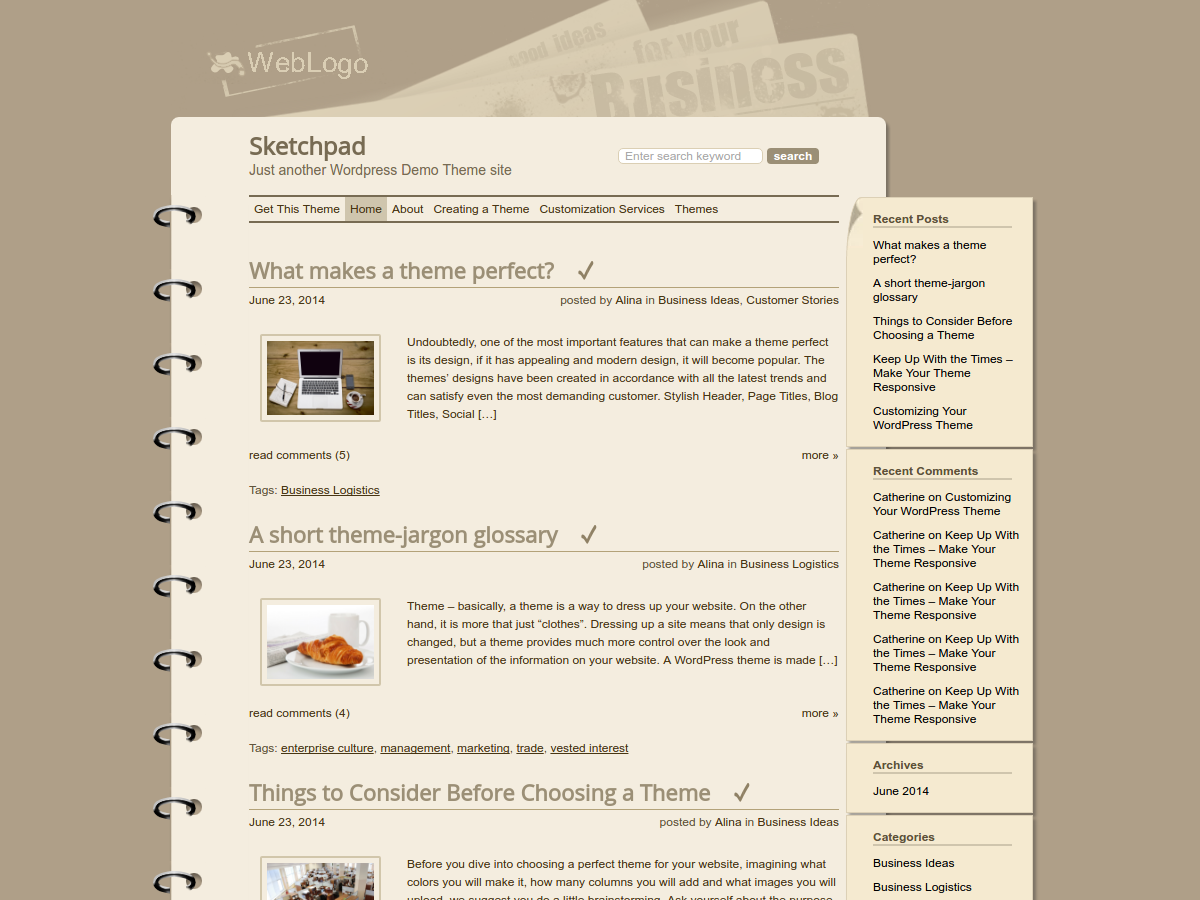
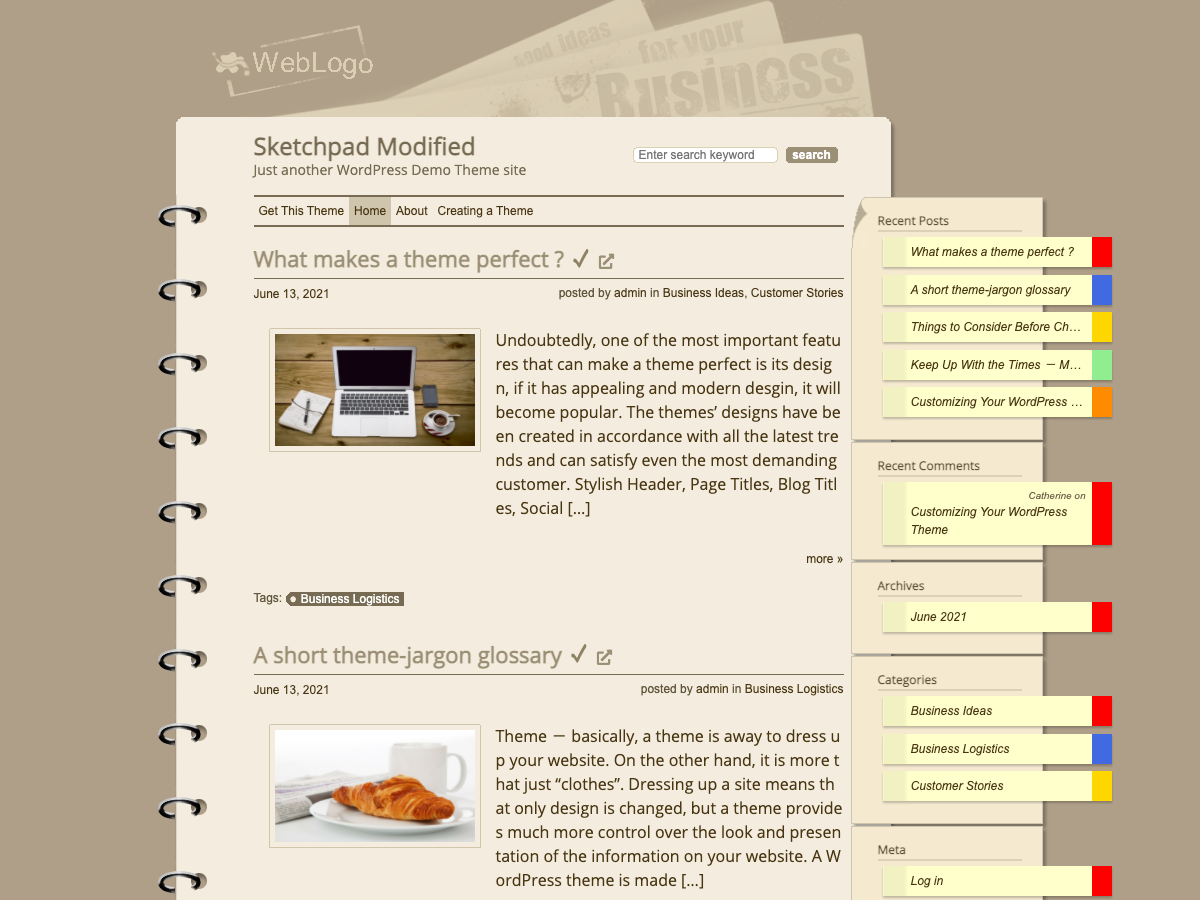
Rewrite Readme.

diff --git a/README.md b/README.md
@@ -1,43 +1,53 @@
 # sketchpad-modified
 
-This is a modified theme of Sketchpad from BestLayout.com. Original [Sketchpad](https://bestweblayout.com/products/sketchpad/)
+[![Maintainability](https://api.codeclimate.com/v1/badges/69c47e077dda30f4bfe8/maintainability)](https://codeclimate.com/github/Angelmaneuver/sketchpad-modified/maintainability) ![GitHub](https://img.shields.io/github/license/angelmaneuver/sketchpad-modified)
 
-## Description
+This is a modified theme of Sketchpad from BestLayout.com. Original is [it](https://bestweblayout.com/products/sketchpad/).
+
+![Screen Shot](screenshot.png)
 
 Original Sketchpad theme has stopped updating. (Last Update V2.0 – 25.08.2016)
 
 I like this theme so I dicided to customize it. Not a job but a hobby...
 
-## Demo
+## Changes from the original
+### Responsive Support
 
-My Blog Site [Meaningless Notebook](https://gokugetsu.plala.jp/)
+<div style="display:flex;justify-content:space-between;align-items:flex-start;margin:20px;">
+<img src="images/readme/screenshot02.png">
+<img src="images/readme/screenshot03.png">
+</div>
 
-## Todo
+Smartphone screens are now supported.
+
+The sidebar can displayed via the hamburger menu.
+
 ### Design
 
-- [x] Postit design
+I changed the size of the text and eye catching image to make them easier to read, and added post-it and other designs to make it more notepad-like.
 
 ### Feature
 
-- [x] Breadcrumb List
-- [x] RSS feeds are now outputted up to read more tag
-- [x] Output EyeCatch image to RSS Feed
-- [x] Return to Top Button
-- [x] HTML can be inserted into the Head tags from the admin panel
-- [x] HTML can be inserted into the Body tags from the admin panel
-- [x] Blog card settings can be configured from the admin panel
-- [x] Infinite scroll (JetPack Plugin)
-- [x] Responsive
-- [ ] Output Structured Data (maybe JSON-LD)
+The following features have been added.
+
+ - Breadcrumb
+ - Return to Top Button
+ - Hamburger Menu
+ - Output more read links to RSS feeds when you select excerpt
+ - Output Eye catching image to RSS feeds
+ - Setting up a Blog Card
+ - HTML can be inserted into the Head tags
+ - HTML can be inserted into the Body tags
+ - Infinite Scroll (JetPack Plugin)
 
 ### Repeal
 
-- [x] Exclude IE from the target browser
+The following features have been removed.
+
+ - IE Support
 
 ## Requirement
 
-- [Font Awesome 5 Free](https://fontawesome.com/)
+The following libraries are required for this theme.
 
-## License
-
-[GNU General Public License V3](https://www.gnu.org/licenses/gpl-3.0.html)
+ - [Font Awesome 5 Free](https://fontawesome.com/)
